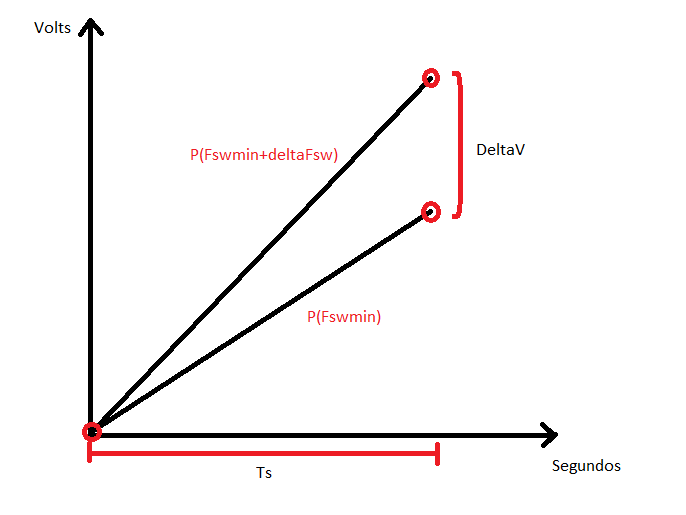
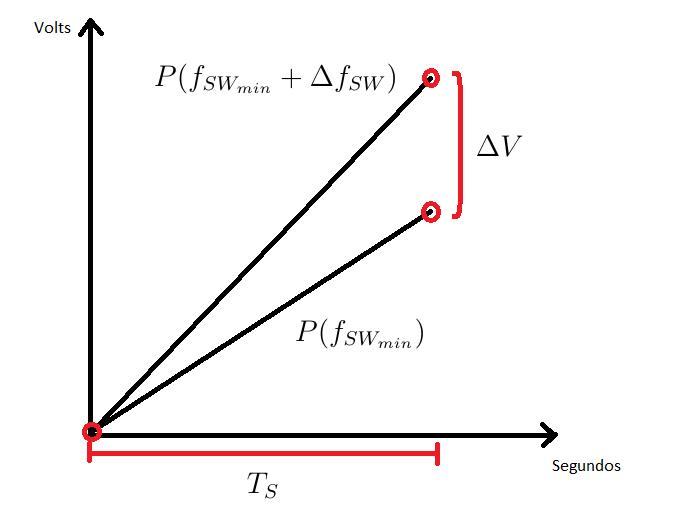
Cambios recta frecuencias

diff --git a/Informe final/Proyecto Levitador LaTeX/Informe/7-ImplementacionDigital/ImplementacionDigital.tex b/Informe final/Proyecto Levitador LaTeX/Informe/7-ImplementacionDigital/ImplementacionDigital.tex
@@ -197,11 +197,9 @@ A partir de la expresión \ref{eq_di-dt_lineal}, que relaciona la distancia de s
 	\end{aligned}
 \end{equation}
 
-\colorbox{yellow}{Ver si se puede poner bien el delta..}
-
 \begin{figure}[H]
 	\centering
-	\includegraphics[scale=0.3]{Variacion-de-pendientes.png}
+	\includegraphics[scale=0.5]{Variacion-de-pendientes.png}
 	\caption{Variación de pendiente ante mínimo cambio de posición.}
 	\label{fig:variacion-de-pendiente}
 \end{figure}
